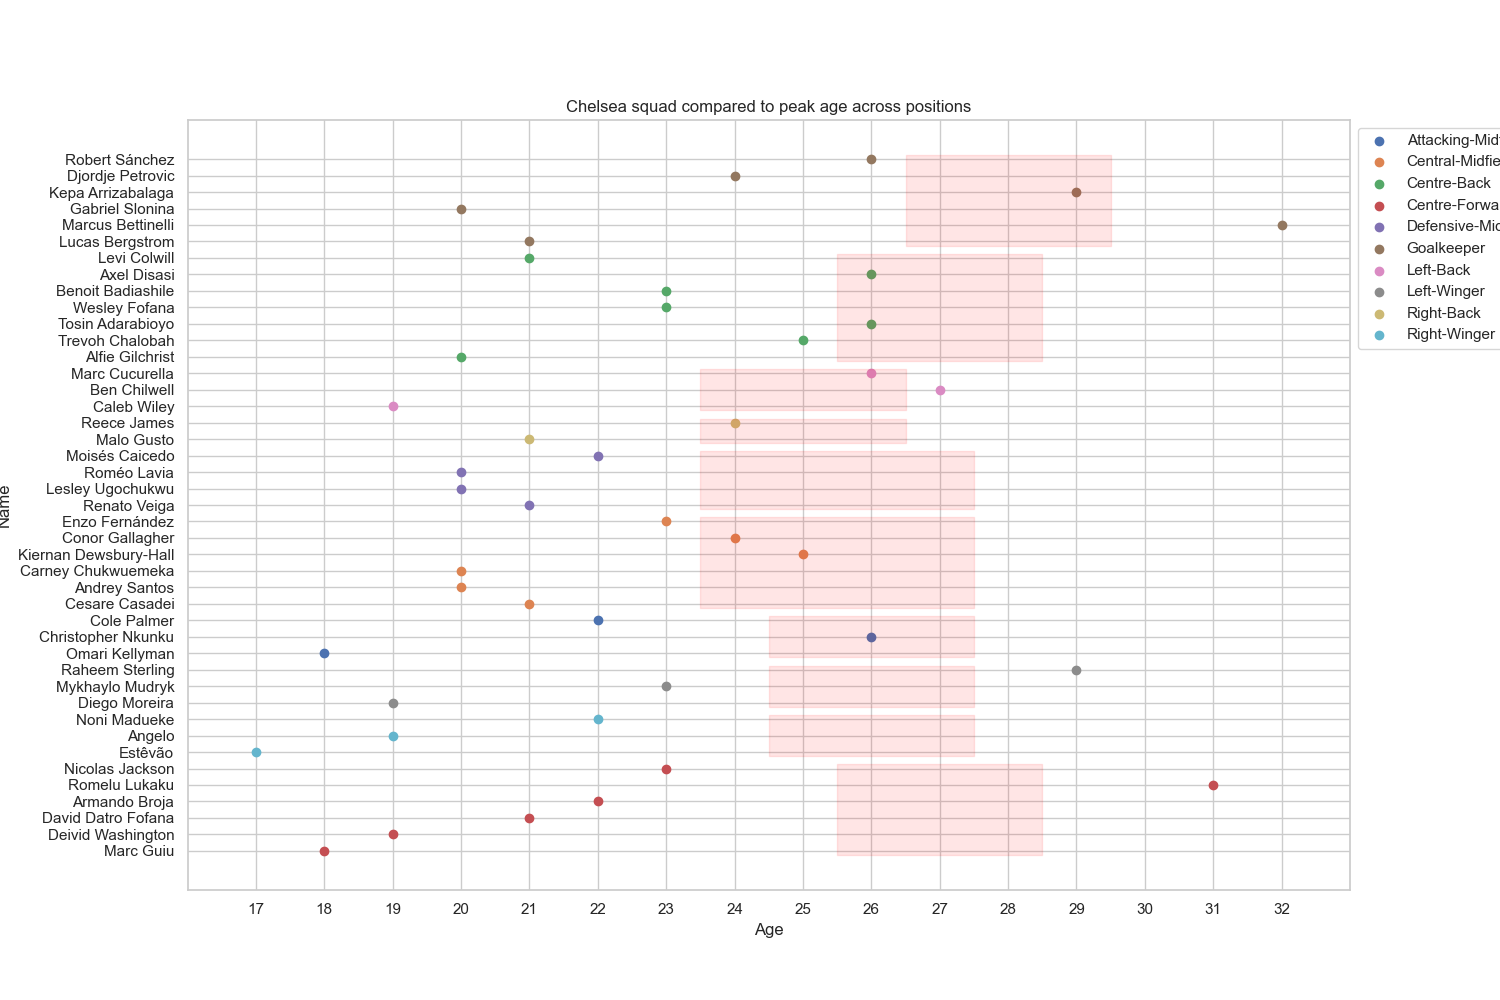
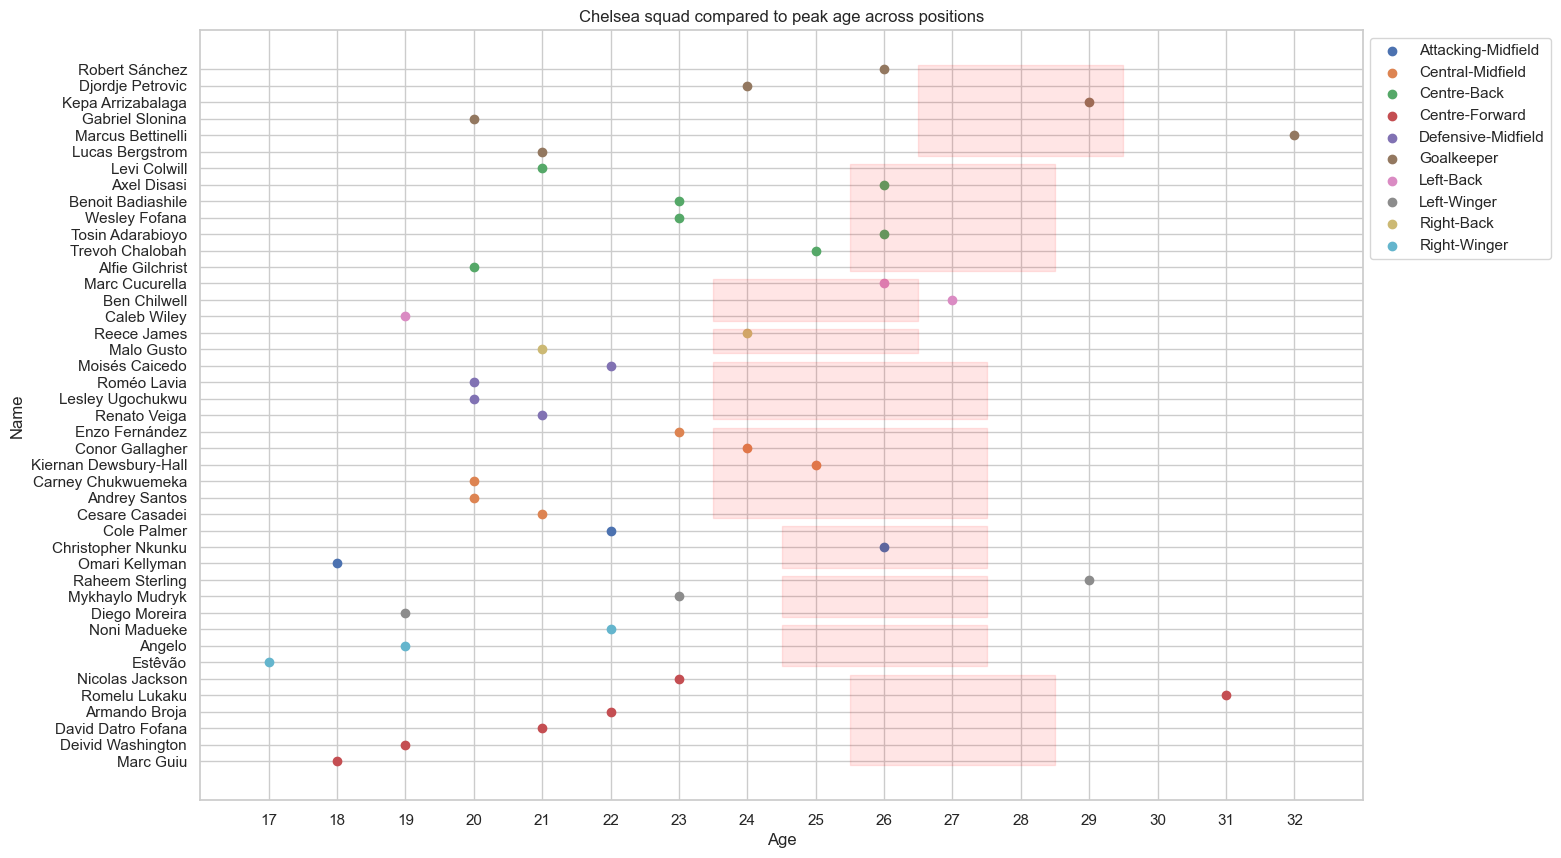
update so legend is fully included

diff --git a/peak_age_plot/plot_peak_age.py b/peak_age_plot/plot_peak_age.py
@@ -54,5 +54,5 @@ def plot_peak_age(df, club_name):
 
     # Show plot
     plt.gca().invert_yaxis()
-    plt.savefig(f"{club_name.replace(' ', '_')}.png")
+    plt.savefig(f"{club_name.replace(' ', '_')}.png", bbox_inches='tight')
     plt.show()
